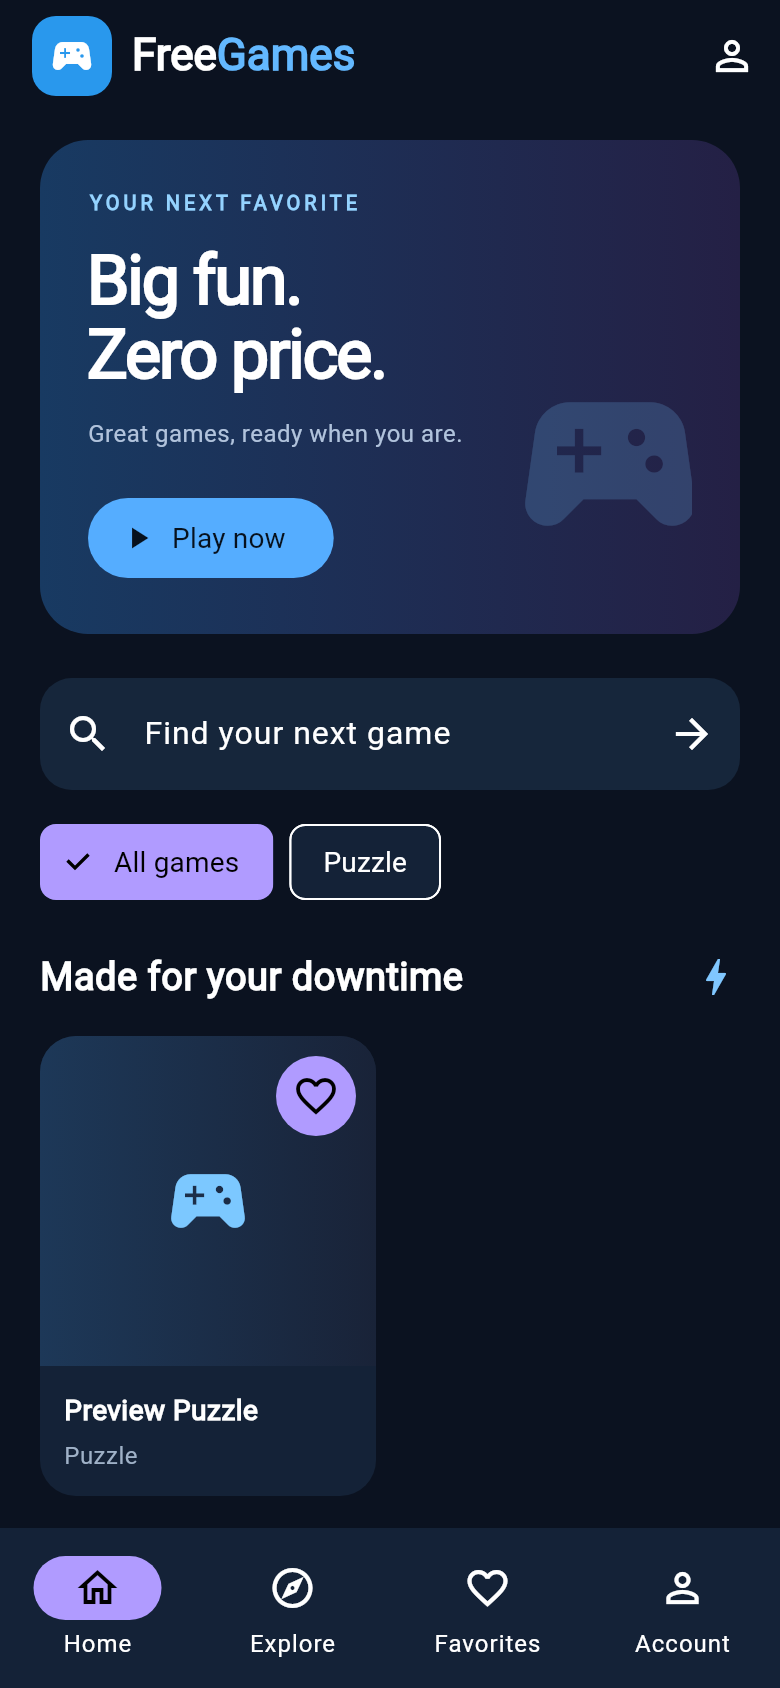
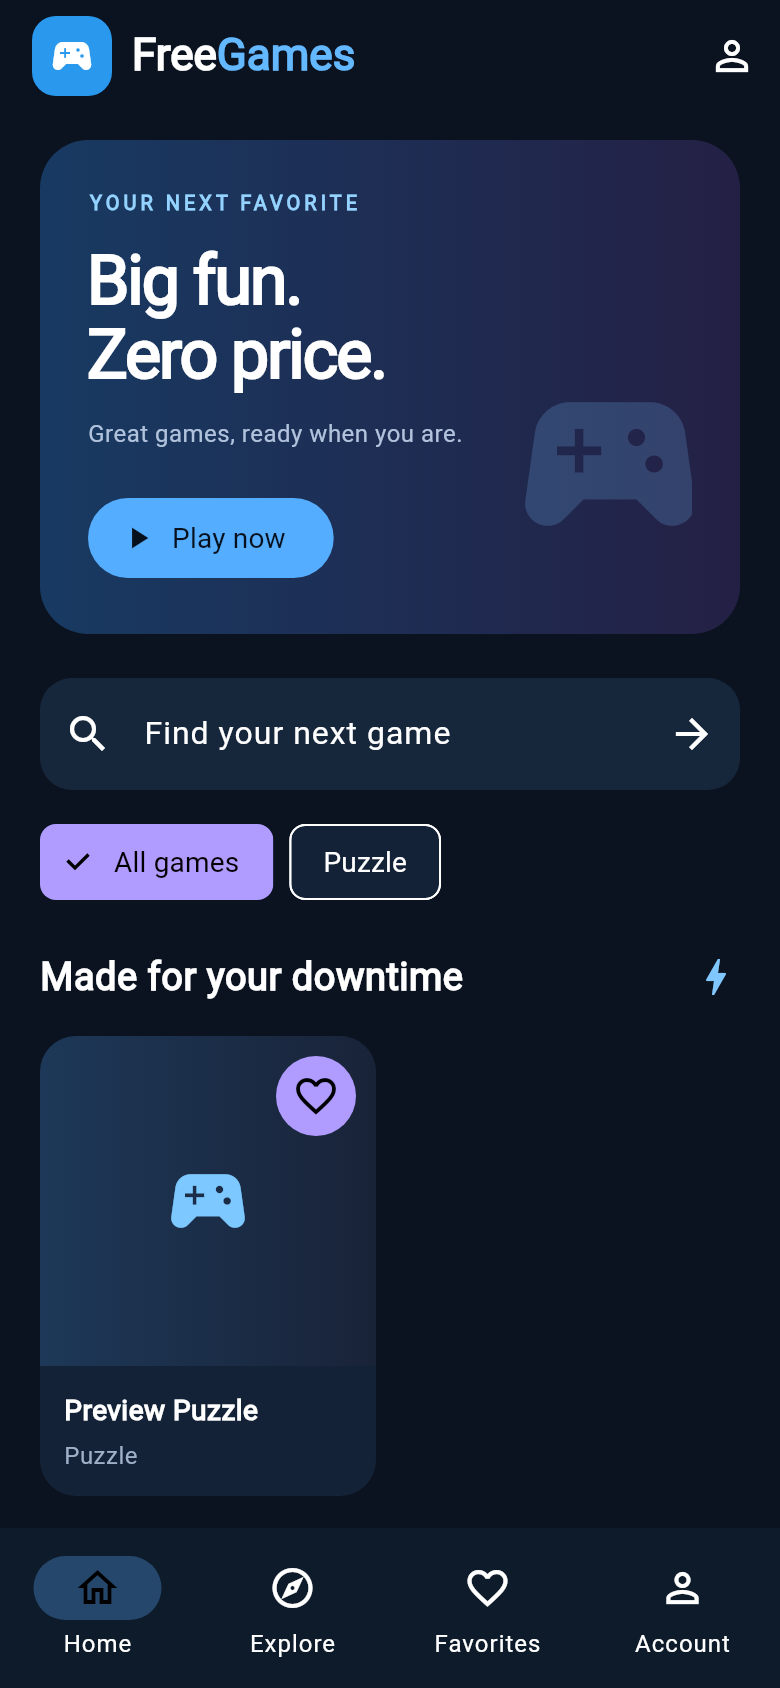
Protect newer sessions from stale responses and verify Android build

Changed region(s): [[0.0308, 0.9242, 0.2154, 0.9858]]

diff --git a/mobile/lib/core.dart b/mobile/lib/core.dart
@@ -66,20 +66,21 @@ class ApiClient {
     if (!kDebugMode && uri.scheme != 'https') {
       throw ApiException('A secure HTTPS server is required.', 0);
     }
+    final sentToken = token;
     final req = http.Request(method, uri)
       ..headers.addAll({
         'Accept': 'application/json',
         'Content-Type': 'application/json',
       });
-    if (authenticated && token != null) {
-      req.headers['Authorization'] = 'Bearer $token';
+    if (authenticated && sentToken != null) {
+      req.headers['Authorization'] = 'Bearer $sentToken';
     }
     if (body != null) req.body = jsonEncode(body);
     try {
       final res = await http.Response.fromStream(
         await client.send(req).timeout(const Duration(seconds: 20)),
       ).timeout(const Duration(seconds: 20));
-      if (res.statusCode == 401 && authenticated) {
+      if (res.statusCode == 401 && authenticated && token == sentToken) {
         await saveToken(null);
         onUnauthorized?.call();
       }
@@ -205,9 +206,11 @@ class AppState extends ChangeNotifier {
         await api.request('auth/refresh', method: 'POST', authenticated: true),
       );
   Future<void> loadFavorites() async {
+    final session = api.token;
     final next = <String, Game>{};
     var page = 1;
     while (true) {
+      if (api.token != session) return;
       final res = await api.request(
         'me/favorites',
         authenticated: true,
@@ -224,7 +227,7 @@ class AppState extends ChangeNotifier {
       if ((res['meta'] as Map)['has_more'] != true) break;
       page++;
     }
-    if (!signedIn) return;
+    if (!signedIn || api.token != session) return;
     favorites
       ..clear()
       ..addAll(next);
@@ -233,13 +236,14 @@ class AppState extends ChangeNotifier {
 
   Future<void> toggleFavorite(Game g) async {
     if (!signedIn) throw ApiException('Sign in to save games.', 401);
+    final session = api.token;
     final saved = favorites.containsKey(g.key);
     await api.request(
       'me/games/${Uri.encodeComponent(g.provider)}/${Uri.encodeComponent(g.id)}/favorite',
       method: saved ? 'DELETE' : 'PUT',
       authenticated: true,
     );
-    if (!signedIn) return;
+    if (!signedIn || api.token != session) return;
     if (saved) {
       favorites.remove(g.key);
     } else {

diff --git a/mobile/test/core_test.dart b/mobile/test/core_test.dart
@@ -1,3 +1,4 @@
+import 'dart:async';
 import 'dart:convert';
 
 import 'package:flutter_test/flutter_test.dart';
@@ -109,6 +110,28 @@ void main() {
       api.request('https://other.test/api/v1/me', authenticated: true),
       throwsA(isA<ApiException>()),
     );
+    api.dispose();
+  });
+  test('a late 401 cannot revoke a newer login', () async {
+    final sent = Completer<void>();
+    final response = Completer<http.Response>();
+    final api = ApiClient(
+        baseUrl: 'https://site.test/api/v1',
+        client: MockClient((_) async {
+          sent.complete();
+          return response.future;
+        }))
+      ..token = 'old';
+    var cleared = false;
+    api.onUnauthorized = () => cleared = true;
+    final pending = api.request('me', authenticated: true);
+    final assertion = expectLater(pending, throwsA(isA<ApiException>()));
+    await sent.future;
+    await api.saveToken('new', expires: '2099-01-01T00:00:00Z');
+    response.complete(http.Response('{"message":"Expired"}', 401));
+    await assertion;
+    expect(api.token, 'new');
+    expect(cleared, false);
     api.dispose();
   });
 }

diff --git a/mobile/README.md b/mobile/README.md
@@ -48,7 +48,7 @@ Release configuration intentionally fails without these keys. Never commit signi
 
 ## Verification
 
-Current source: Flutter analyzer clean; 14 unit/widget tests passed. Coverage includes provider identity, public/private bearer handling, invalid/expired sessions, server validation messages, server-path isolation, navigation at 320/390/768 widths, registration, failed preferences loading and temporary authenticator secrets. Laravel: 70 tests passed, 901 assertions. Android APK compilation is being checked separately; these tests are not real-device certification.
+Current source: Flutter analyzer clean; 15 unit/widget tests passed. Coverage includes provider identity, public/private bearer handling, invalid/expired sessions, late unauthorized responses after a newer login, server validation messages, server-path isolation, navigation at 320/390/768 widths, registration, failed preferences loading and temporary authenticator secrets. Laravel: 70 tests passed, 901 assertions. Android debug APK compilation passed. The development APK targets the Android emulator/local API; these checks are not real-device certification.
 
 Before publishing, set the live HTTPS API URL and release signing; validate actual mail delivery, games, provider ads/audio/orientation, keyboard and sessions on real Android/iOS devices. Universal/deep links for email recovery are not configured; the app accepts a pasted email reset link/token or browser completion.
 
